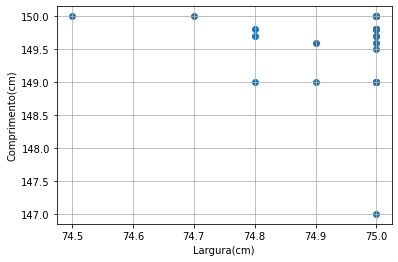
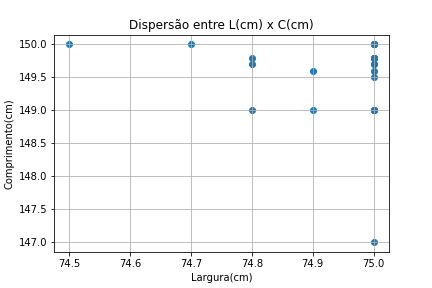
Melhorando o código

Changed region(s): [[0.0, 0.0, 0.995, 0.9771]]

diff --git a/CalculosMecanica.py b/CalculosMecanica.py
@@ -72,7 +72,7 @@ print("Erro médio da Largura(cm): ", round(Erro_Media_Largura,2))
 
 Dp_Area = np.std(tabela["Área"])
 Erro_Media_Área = Dp_Area / Raiz_das_medidas
-print("Erro médio da Área (cm²): ",round(Erro_Media_Área,2))
+print("Erro médio da Área (cm²): ",round(Erro_Media_Área,3))
 
 print()
 
@@ -177,6 +177,8 @@ plt.tight_layout()
 
 plt.show()
 
+
+
 """# Calculando a correlação entre dos dados do comprimento e largura.
 
 **Para isso iremos utilizar a covariancia entre x e y e coeficiente de Pearson (r). Depois iremos criar o gráfico de dispersão para visualizar como as grandezas de correlacionam graficamente.**
@@ -240,19 +242,43 @@ tabela = pd.read_excel("/content/PlanilhaMec.xlsx")#aqui irá ler os dados em Ex
 plt.scatter(tabela["L"],tabela["C"],) #Aqui posso criar um gráfico de dispersão com os eixos x e y
 plt.xlabel("Largura(cm)") #Colocando legendas no eixo x que é o comprimento neste caso
 plt.ylabel("Comprimento(cm)") #Colocando legendas no eixo y que é a largura neste caso
-plt.title("Dispersão entre C(cm) x L(cm)")
+plt.title("Dispersão entre L(cm) x C(cm)")
 plt.grid()
+plt.savefig("Dispersão2.png")
 
 plt.show()
 
 """**Podemos ver também que os gráficos não apresentam correlação, o maior valor de uma grandeza é o menor de outra**
 
+Agora criarei os gráficos da turma com as médias de comprimento, largura e área
+"""
+
+import matplotlib.pyplot as plt
+
+idades=[149.88,150.02,150.00,149.99,149.84,150.01,150.07,150.02,149.01,150.15,149.51,150.01,150.17,150.22,149.90]
+plt.title('Média comprimento da turma', fontsize=20)
+plt.xlabel('Médias Comprimento(cm)', fontsize=15)
+plt.ylabel('Frequência Absoluta', fontsize=15)
+
+média =  149.98
+cor = "black"
+plt.axvline(média, color=cor, label="Média_Comprimento:  149.98") 
+plt.legend()
+
+plt.tick_params(labelsize=18)
+plt.grid()
+
+plt.hist(idades, 4, rwidth=0.9, color='red', alpha=0.7, edgecolor='black')
+plt.savefig("Media_Alunos_Comp.jpg")
+plt.show()
+
+"""
+
 **Agora podemos calcular a incerteza da Área por meio da propagação de erros utilizando a relação abaixo:**
 
 \begin{equation}
  \boxed{σ_{A} = A \sqrt{\left (\dfrac{σ_{c}}{c} \right)^2 + \left (\dfrac{ σ_{l}}{l} \right)^2}} 
-\end{equation}
-"""
+\end{equation}"""
 
 # Calculando as medias de C, L e A
 
@@ -336,7 +362,7 @@ else:
 
 
 
-#Calculando compatibilidade para Comprimento com o valor de referência
+#Calculando compatibilidade para Largura com o valor de referência
 
 #Valor de referencia
 Larg_ref = 75.00
